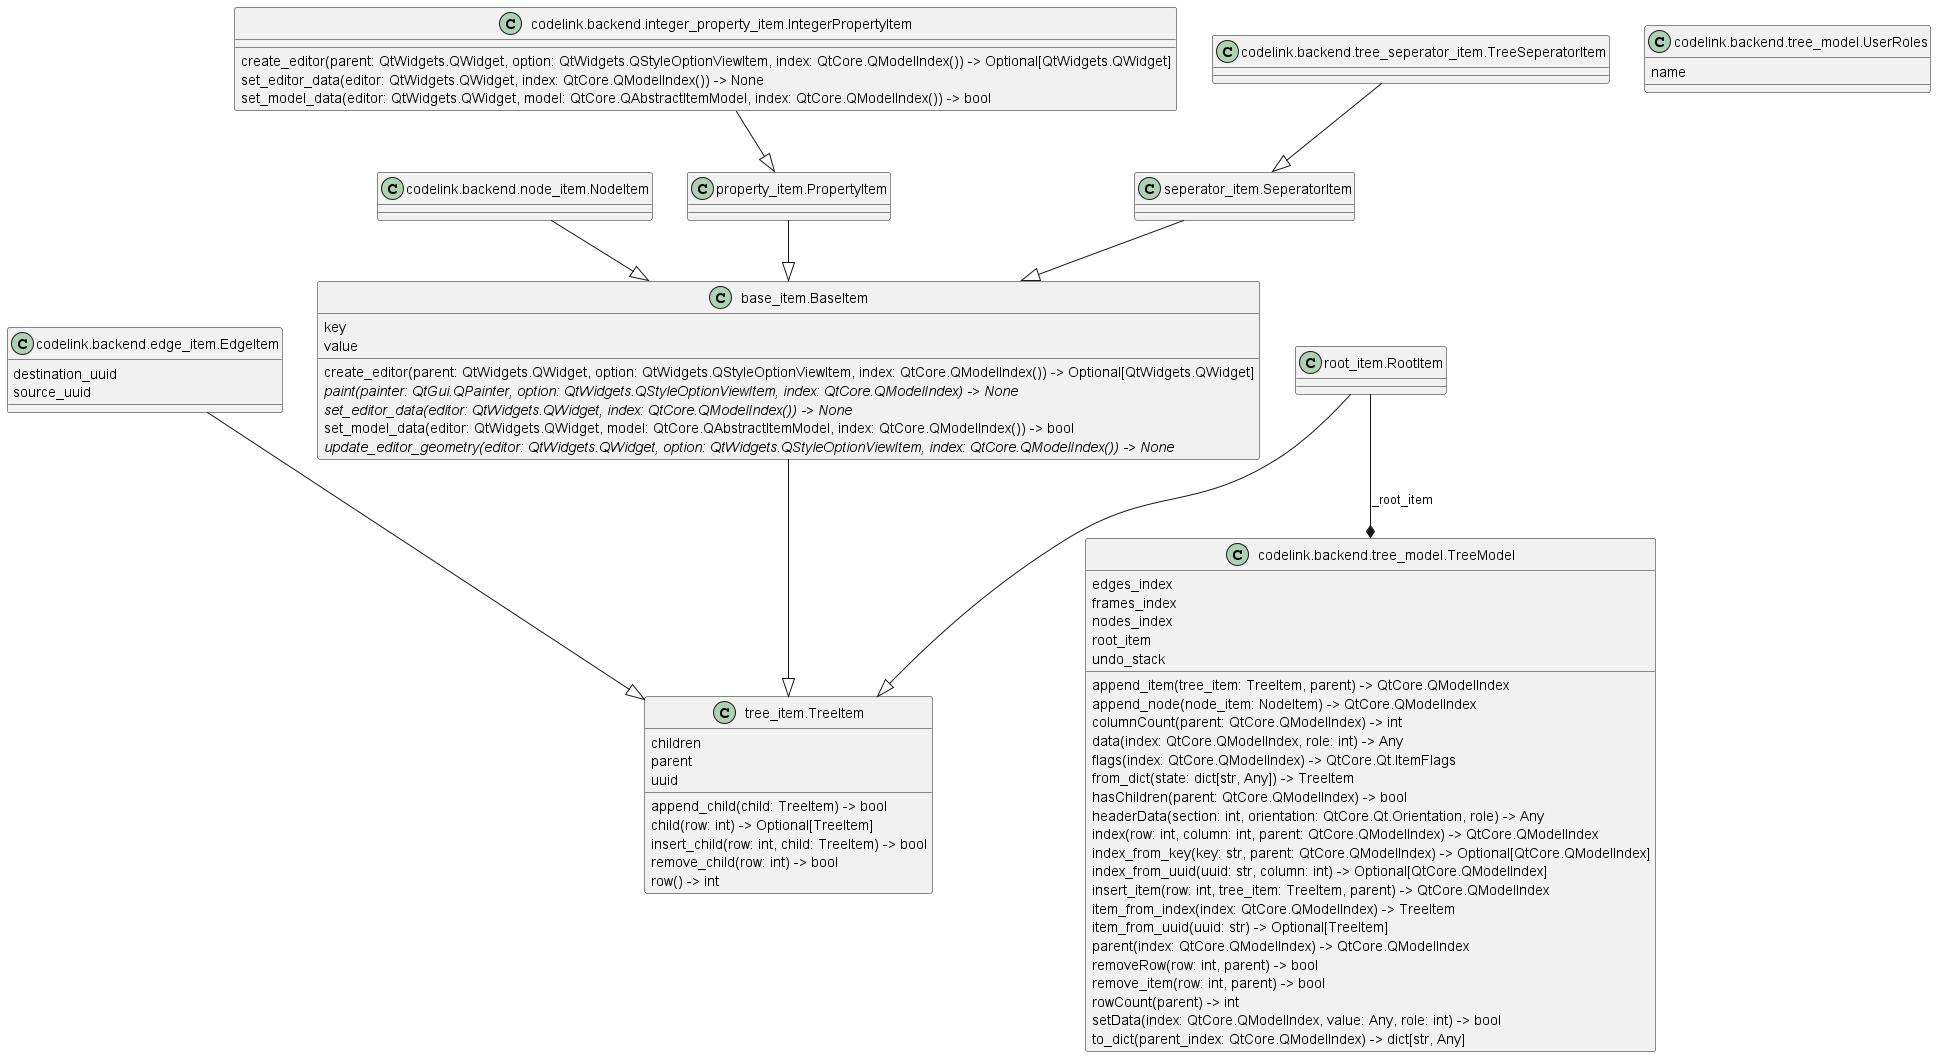
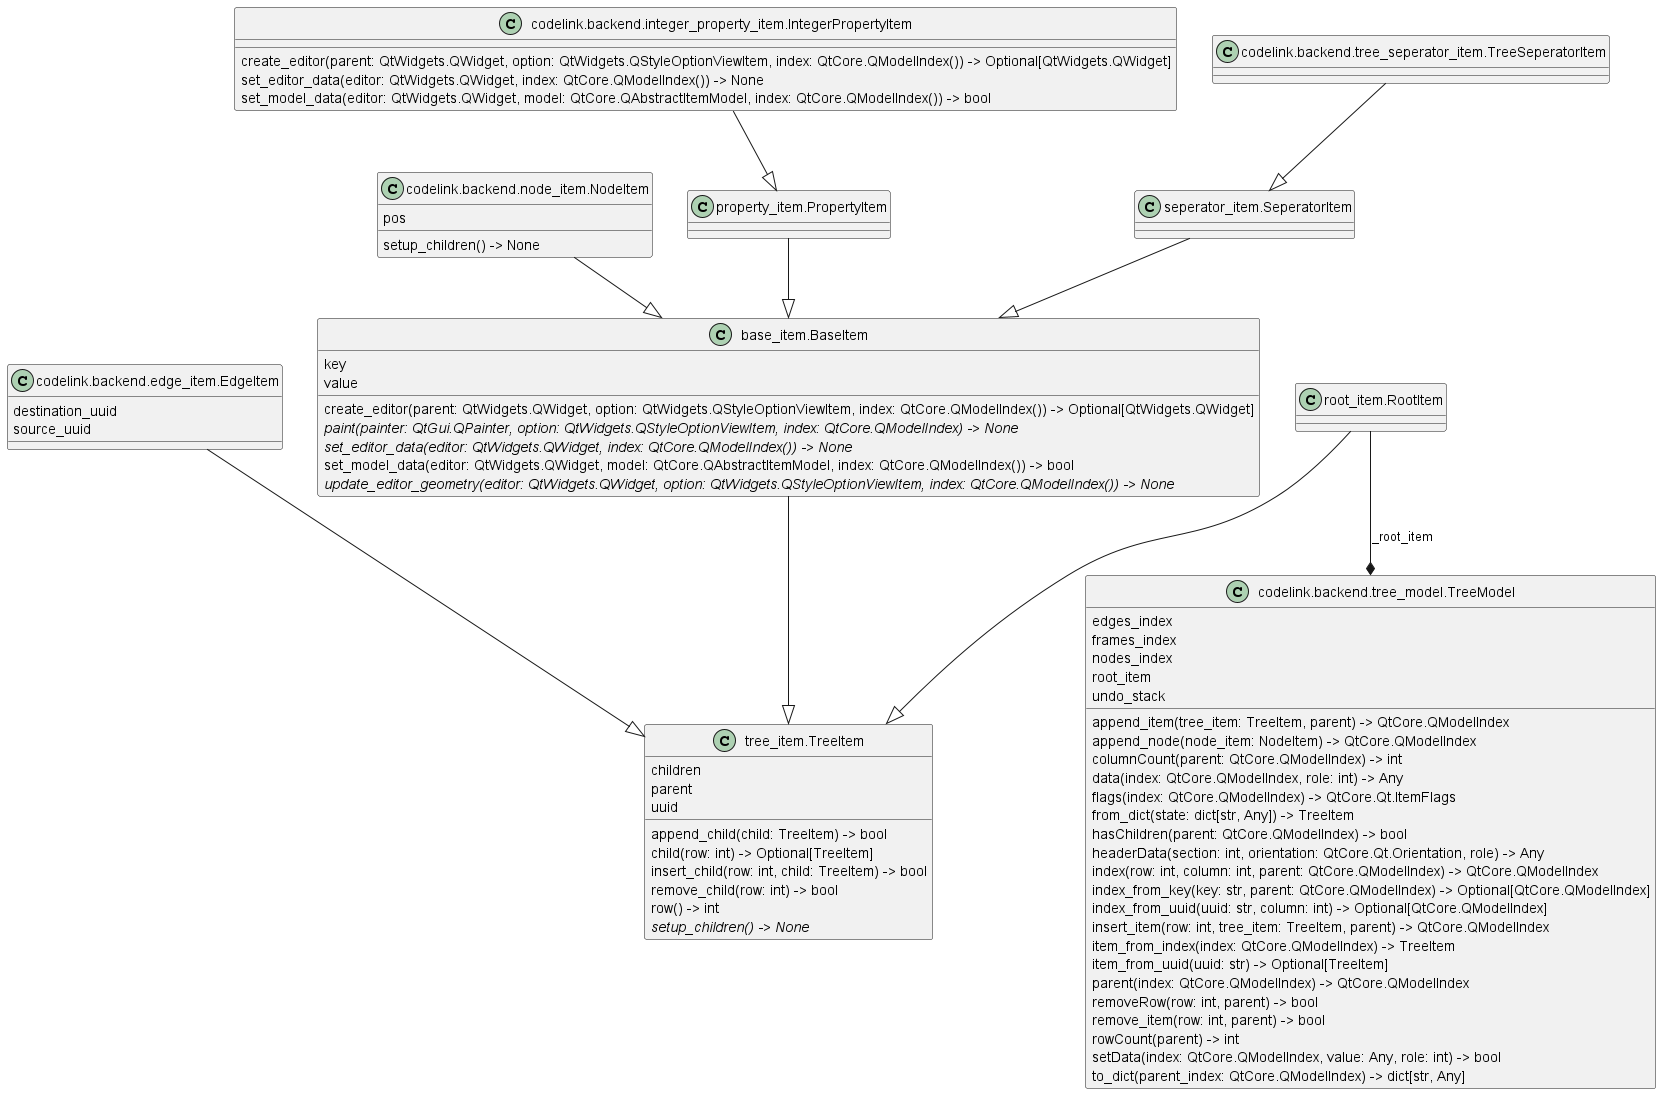
Adds user_roles.py

diff --git a/src/codelink/backend/node_item.py b/src/codelink/backend/node_item.py
@@ -30,22 +30,22 @@ from seperator_item import SeperatorItem
 
 
 class NodeItem(BaseItem):
-    def __init__(self, key: str, value: Any = None, pos: Optional[list[float, float]] = None,
+    def __init__(self, key: str, value: Any = None, pos: Optional[list[int]] = None,
                  uuid: Optional[str] = None, parent: Optional[TreeItem] = None) -> None:
         super().__init__(key, value, uuid, parent)
 
         if pos is None:
-            pos = [0, 0]
+            pos: list[int] = [0, 0]
 
-        self._pos: list[float, float] = pos
+        self._pos: list[int] = pos
 
     @property
-    def pos(self) -> list[float, float]:
+    def pos(self) -> list[int]:
         return self._pos
 
     @pos.setter
-    def pos(self, value: list[float, float]) -> None:
-        self._pos: list[float, float] = value
+    def pos(self, value: list[int]) -> None:
+        self._pos: list[int] = value
 
     def setup_children(self) -> None:
         self.append_child(SeperatorItem("Base"))
